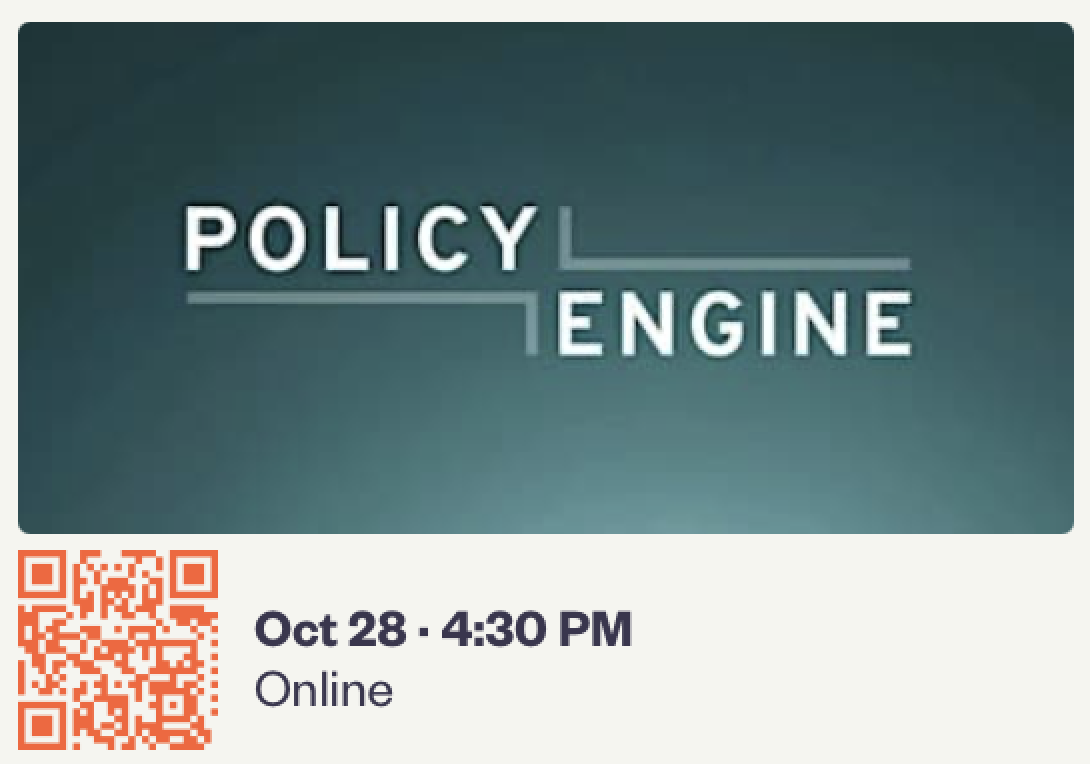
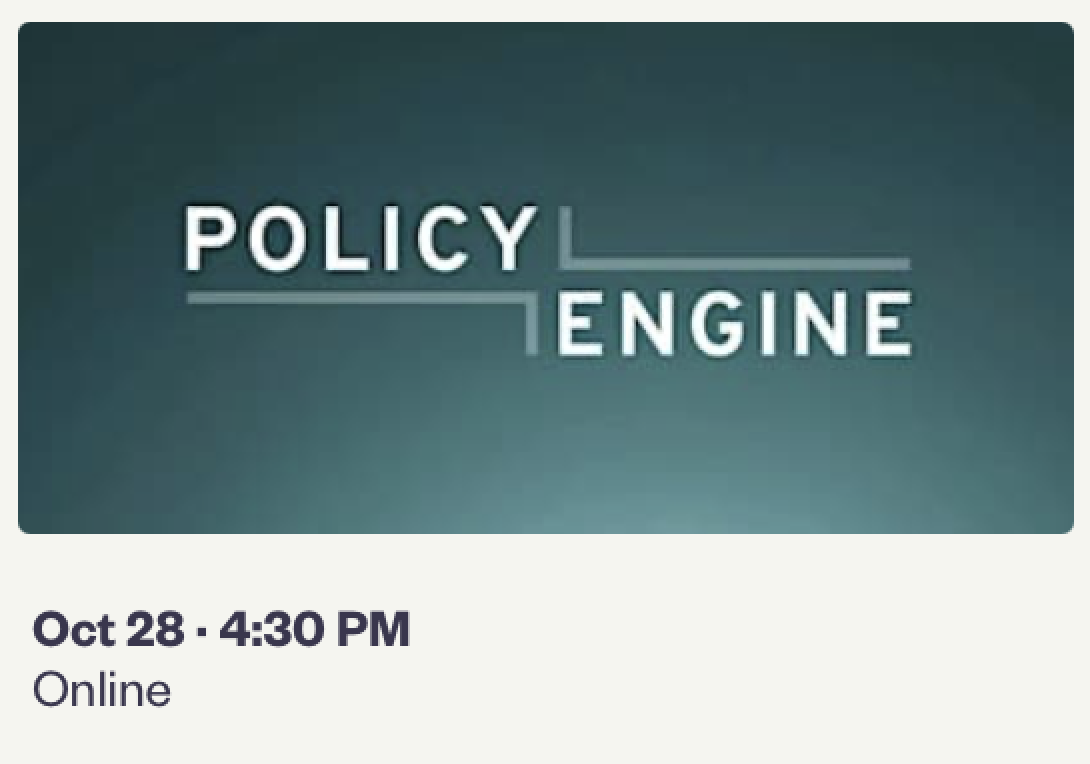
Switch Budget event to Zoom webinar
Call it a webinar (the briefing is the 07:00 written piece), link to the
Zoom registration page, and remove the Eventbrite QR code from the banner.

Changed region(s): [[0.0, 0.7225, 0.5927, 0.9935]]

diff --git a/editions/2026-10-13-uk.html b/editions/2026-10-13-uk.html
@@ -33,15 +33,15 @@
 
           <tr><td class="hero-pad" style="background: linear-gradient(165deg, #1D4044 0%, #234E52 40%, #285E61 100%); background-color:#234E52; border-radius:16px 16px 0 0; padding:48px 40px 40px 40px;">
             <div style="width:48px;height:3px;background:linear-gradient(90deg, #4FD1C5 0%, #81E6D9 100%);margin-bottom:24px;border-radius:2px;"></div>
-            <h1 class="hero-title" style="margin:0 0 20px 0;font-size:28px;font-weight:800;color:#FFFFFF;line-height:1.15;letter-spacing:-0.02em;">Autumn Budget 2026: join our briefing on 28 October</h1>
+            <h1 class="hero-title" style="margin:0 0 20px 0;font-size:28px;font-weight:800;color:#FFFFFF;line-height:1.15;letter-spacing:-0.02em;">Autumn Budget 2026: join our webinar on 28 October</h1>
             <p style="margin:0;font-size:15px;line-height:1.65;color:#B2F5EA;font-weight:400;">Plus new UK dashboards, a marriage calculator, an AI study and our JOSS paper.</p>
           </td></tr>
 
 
           <tr><td class="section-pad" style="background-color:#FFFFFF;padding:28px 40px;border-bottom:1px solid #E2E8F0;">
-                <p style="margin:0 0 8px 0;font-size:10px;font-weight:700;letter-spacing:0.15em;text-transform:uppercase;color:#319795;">Online briefing &middot; Wednesday 28 October</p>
-                <p style="margin:0 0 8px 0;color:#1D4044;font-weight:700;font-size:16px;">Autumn Budget 2026: PolicyEngine briefing</p>
-                <p style="margin:0 0 16px 0;font-size:13px;line-height:1.6;color:#475569;">Join our free briefing on the <span style='text-decoration:underline;'>Autumn Budget 2026, online on Wednesday 28 October at 4:30pm (UK time)</span>. We will walk through the Budget&rsquo;s tax and benefit measures and what our models show about their effects on households and the public finances.</p><a href="https://www.eventbrite.co.uk/e/autumn-budget-2026-policyengine-briefing-tickets-2003359829178"><img src="https://raw.githubusercontent.com/PolicyEngine/newsletters/2026-10-09-uk/assets/images/uk-autumn-budget-2026-briefing.png" alt="PolicyEngine Autumn Budget 2026 briefing: 28 October, 4:30pm, online" width="320" style="width:62%;max-width:320px;height:auto;display:block;border-radius:8px;border:1px solid #E2E8F0;margin:0 auto 16px auto;"></a><div style="text-align:center;"><a href="https://www.eventbrite.co.uk/e/autumn-budget-2026-policyengine-briefing-tickets-2003359829178" style="display:inline-block;padding:12px 24px;background-color:#319795;color:#FFFFFF;text-decoration:none;font-weight:600;font-size:14px;border-radius:6px;">Register for the briefing &rarr;</a></div>
+                <p style="margin:0 0 8px 0;font-size:10px;font-weight:700;letter-spacing:0.15em;text-transform:uppercase;color:#319795;">Online webinar &middot; Wednesday 28 October</p>
+                <p style="margin:0 0 8px 0;color:#1D4044;font-weight:700;font-size:16px;">Autumn Budget 2026: PolicyEngine webinar</p>
+                <p style="margin:0 0 16px 0;font-size:13px;line-height:1.6;color:#475569;">Join our free webinar on the <span style='text-decoration:underline;'>Autumn Budget 2026, online on Wednesday 28 October at 4:30pm (UK time)</span>. We will walk through the Budget&rsquo;s tax and benefit measures and what our models show about their effects on households and the public finances.</p><a href="https://us06web.zoom.us/meeting/register/2DLUeZAbRwKkKEK-2JrFrQ"><img src="https://raw.githubusercontent.com/PolicyEngine/newsletters/2026-10-09-uk/assets/images/uk-autumn-budget-2026-briefing.png" alt="PolicyEngine Autumn Budget 2026 webinar: 28 October, 4:30pm, online" width="320" style="width:62%;max-width:320px;height:auto;display:block;border-radius:8px;border:1px solid #E2E8F0;margin:0 auto 16px auto;"></a><div style="text-align:center;"><a href="https://us06web.zoom.us/meeting/register/2DLUeZAbRwKkKEK-2JrFrQ" style="display:inline-block;padding:12px 24px;background-color:#319795;color:#FFFFFF;text-decoration:none;font-weight:600;font-size:14px;border-radius:6px;">Register for the webinar &rarr;</a></div>
           </td></tr>
           <tr><td class="section-pad" style="background-color:#FFFFFF;padding:28px 40px;border-bottom:1px solid #E2E8F0;">
                 <p style="margin:0 0 8px 0;font-size:10px;font-weight:700;letter-spacing:0.15em;text-transform:uppercase;color:#319795;">New Dashboard &middot; Cost of living</p>
